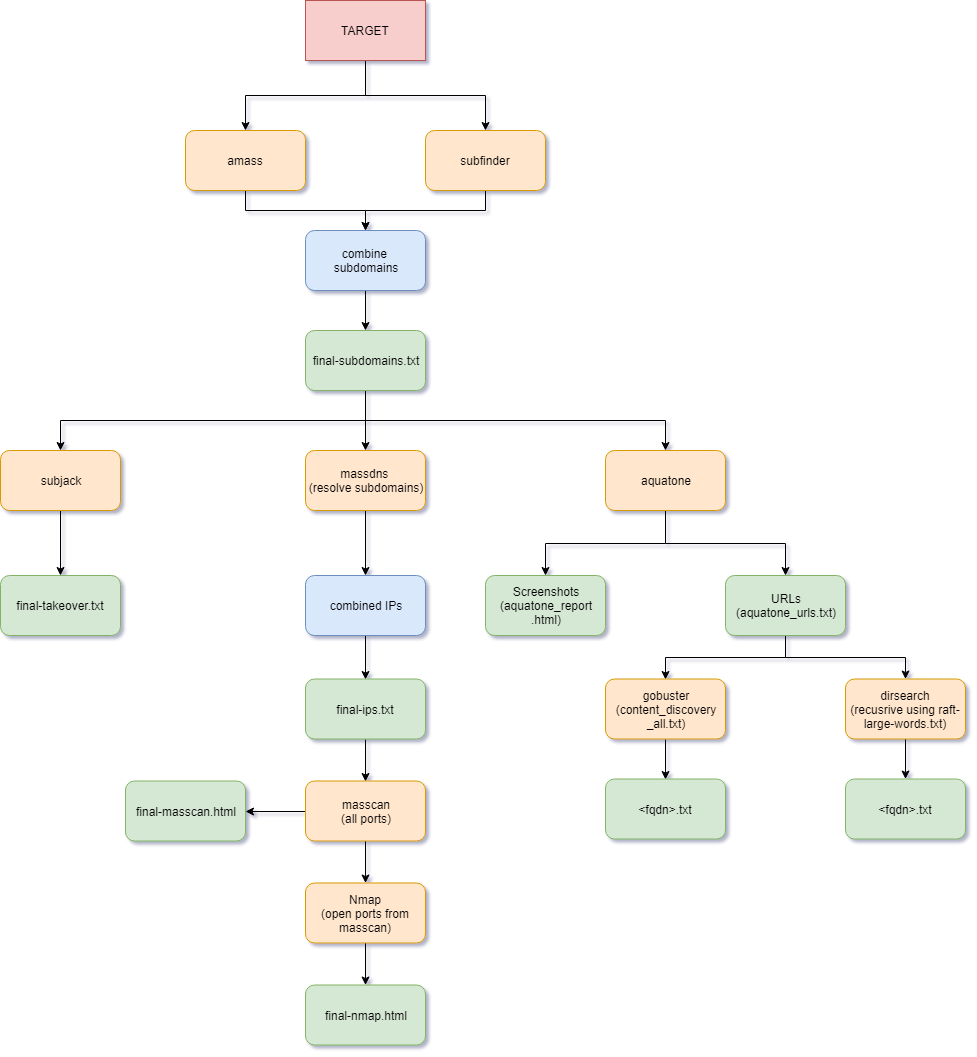
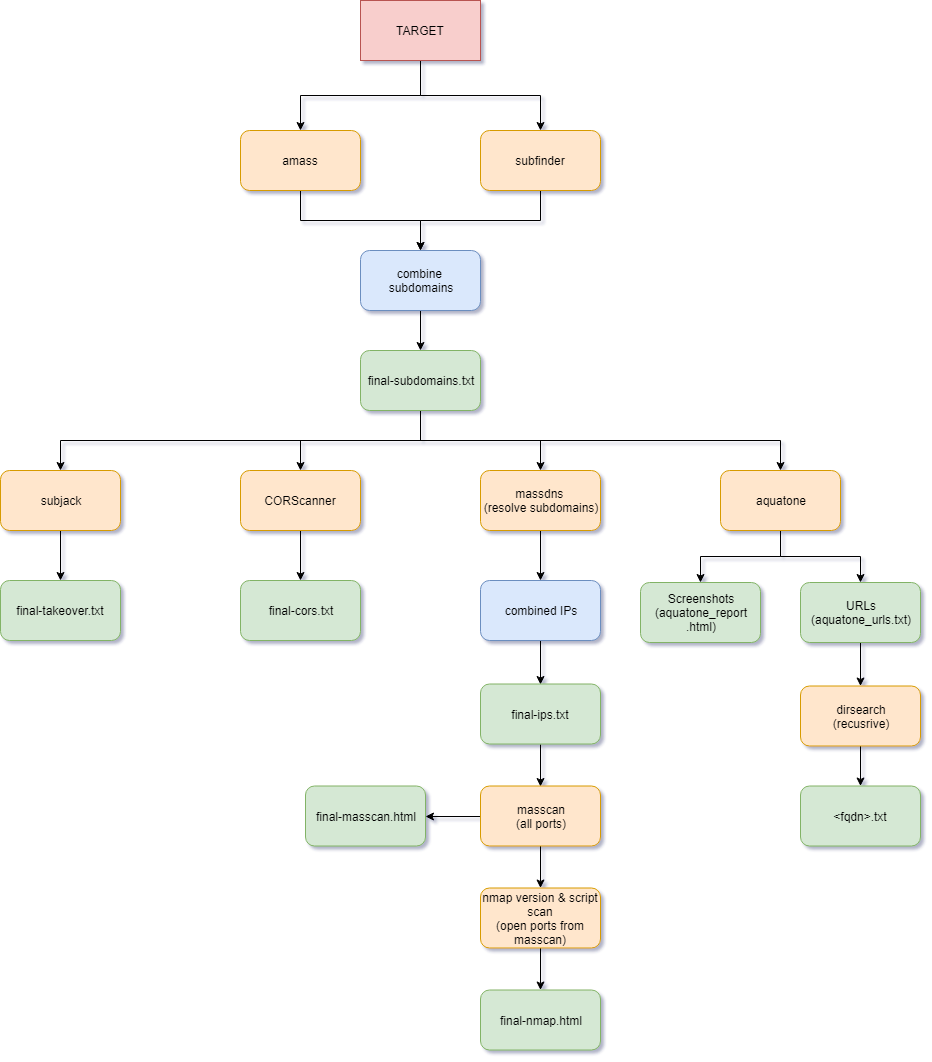
Updated to v1.3

diff --git a/README.md b/README.md
@@ -3,39 +3,44 @@
 [![license](https://img.shields.io/github/license/capt-meelo/LazyRecon.svg?style=flat)](https://github.com/capt-meelo/LazyRecon/blob/master/LICENSE)
 [![issues](https://img.shields.io/github/issues-raw/capt-meelo/LazyRecon.svg?style=flat)](https://github.com/capt-meelo/LazyRecon/issues?q=is:issue+is:open)
 
-LazyRecon is a wrapper of various scripts that automates the tedious process of reconnaissance of a target domain. 
+LazyRecon is a wrapper of various scripts that automates the tedious and redundant process of reconnaissance of a target domain. 
 
 LazyRecon utilizes the following tools:
 - Subdomain Enumeration:
   - [Amass](https://github.com/OWASP/Amass)
   - [Subfinder](https://github.com/subfinder/subfinder)
 - Subdomain Takeover:
-  - [subjack](https://github.com/haccer/subjack) 
+  - [subjack](https://github.com/haccer/subjack)
+- CORS Configuration:
+  - [CORScanner](https://github.com/chenjj/CORScanner) 
 - IP Discovery:
   - [Massdns](https://github.com/blechschmidt/massdns)
-- Port Scanner:
+- Port Scanning:
   - [Masscan](https://github.com/robertdavidgraham/masscan)
   - [Nmap](https://nmap.org/)
   - [Nmap Bootstrap Stylesheet](https://github.com/honze-net/nmap-bootstrap-xsl/)
 - Visual Recon:
   - [Aquatone](https://github.com/michenriksen/aquatone)
 - Content Discovery:
-  - [Gobuster](https://github.com/OJ/gobuster)
   - [Dirsearch](https://github.com/maurosoria/dirsearch)
 - Wordlists:
   - [JHaddix's all.txt](https://gist.github.com/jhaddix/f64c97d0863a78454e44c2f7119c2a6a)
-  - [JHaddix's content_discovery_all.txt](https://gist.github.com/jhaddix/b80ea67d85c13206125806f0828f4d10)
   - [SecLists' raft-large-words.txt](https://github.com/danielmiessler/SecLists/blob/master/Discovery/Web-Content/raft-large-words.txt)
-  
 
-Thanks to the developers of these tools!
 
 ## Workflow
 ![Flow](workflow.png)
 
 
 ## Installation
-:warning: **NOTE:** Before executing `install.sh`, modify the `subEnumTools()` function by placing your **Virustotal**, **Passivetotal**, **SecurityTrails**, **Censys**, **Riddler**, and **Shodan API keys**. This will give better results during the subdomain enumeration.
+First, run the following commands to install the latest version of **Go**.
+```
+git clone https://github.com/capt-meelo/LazyRecon.git
+cd LazyRecon
+source get-go.sh
+```
+
+Then, modify the `subEnumTools()` function of `install.sh` by placing your **Virustotal**, **Passivetotal**, **SecurityTrails**, **Censys**, **Riddler**, and **Shodan API keys**. This will give better results during the subdomain enumeration.
 ```
 ~/go/bin/subfinder --set-config VirustotalAPIKey=<INSERT-YOUR-API-KEY-HERE>
 ~/go/bin/subfinder --set-config PassivetotalUsername=<INSERT-YOUR-API-KEY-HERE>,PassivetotalKey=<INSERT-YOUR-API-KEY-HERE>
@@ -44,18 +49,14 @@ Thanks to the developers of these tools!
 ~/go/bin/subfinder --set-config CensysUsername=<INSERT-YOUR-API-KEY-HERE>,CensysSecret=<INSERT-YOUR-API-KEY-HERE>
 ~/go/bin/subfinder --set-config ShodanAPIKey=<INSERT-YOUR-API-KEY-HERE>
 ```
-To install, just do the following:
+Finally, run the following to install the required tools.
 ```
-git clone https://github.com/capt-meelo/LazyRecon.git
-cd LazyRecon
 chmod +x install.sh
 ./install.sh
 ```
 
+
 ## How to Use
-:warning: **NOTES:** 
-1. It's recommended to run this tool in a VPS, such as [DigitalOcean](https://www.digitalocean.com/?refcode=f7f86614e1b3), for better speed.
-2. Running this tool takes time, thus it's suggested to run it under a **screen** or **tmux** session.
 ```
 cd LazyRecon
 chmod +x LazyRecon.sh
@@ -63,12 +64,33 @@ chmod +x LazyRecon.sh
 ```
 
 
+## Notes
+- It's suggested to run this tool in a VPS, such as [DigitalOcean](https://www.digitalocean.com/?refcode=f7f86614e1b3), for better speed & accuracy.
+- Running this tool takes time, thus it's recommended to run it under a **screen** or **tmux** session.
+- The tool runs **masscan** with the option `--rate 1000` for more accurate results. Based on experiments, **masscan** misses some open ports when scanning large port ranges. Depending on your environment, you could do the following to have a good balance between speed and accuracy:
+  - Increase the rate, and/or reduce the number of ports. For example, use the options `--top-ports 1000` & `--rate 10000`.
+  - If you feel **masscan** and **nmap** are slow, you can run them in the background by changing the command `portScan` to `portScan > /dev/null 2>&1 &`.
+
+
+
+## Tested On
+:white_check_mark: Ubuntu 18.10 (64-bit)
+
+:white_check_mark: Debian 9.8 (64-bit)
+
+:white_check_mark: Kali 2019.1 (64-bit)
+
+
 ## Contribute
 
 If you have any problem or new idea, feel free to create an issue, or pull a request.
 
 
-## Disclaimer
-All of the tools being used by LazyRecon are developed by others. I just put all the pieces together to automate the redundant jobs.
+## Credits
 
-This tool is written for educational purposes only. You are responsible for your own actions. If you mess something up or break any law while using this tool, it's your fault, and your fault only.
+All of the tools being used by LazyRecon are developed by others, so big thanks to them!
+
+
+## Disclaimer
+
+This tool is written for educational purposes only. You are responsible for your own actions. If you mess something up or break any law while using this tool, it's your fault and your fault only.
